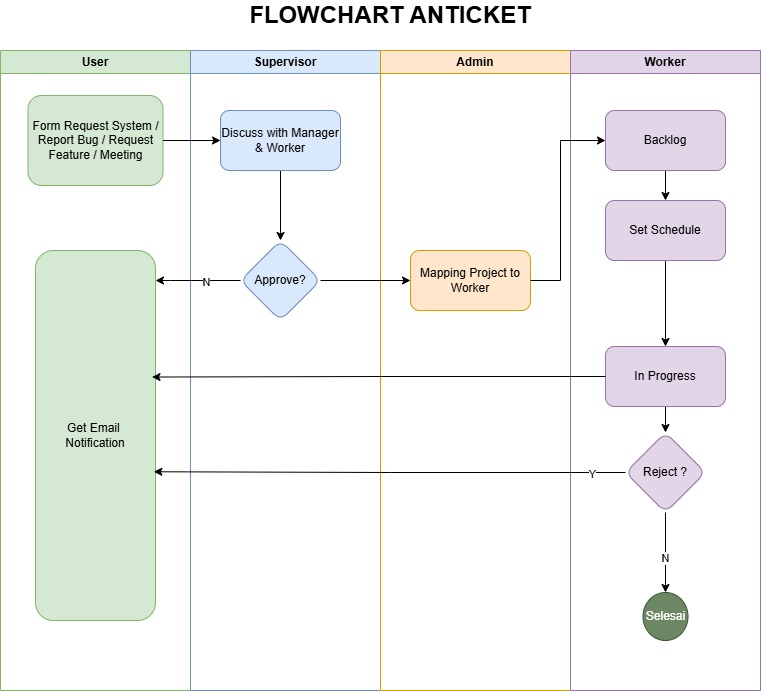
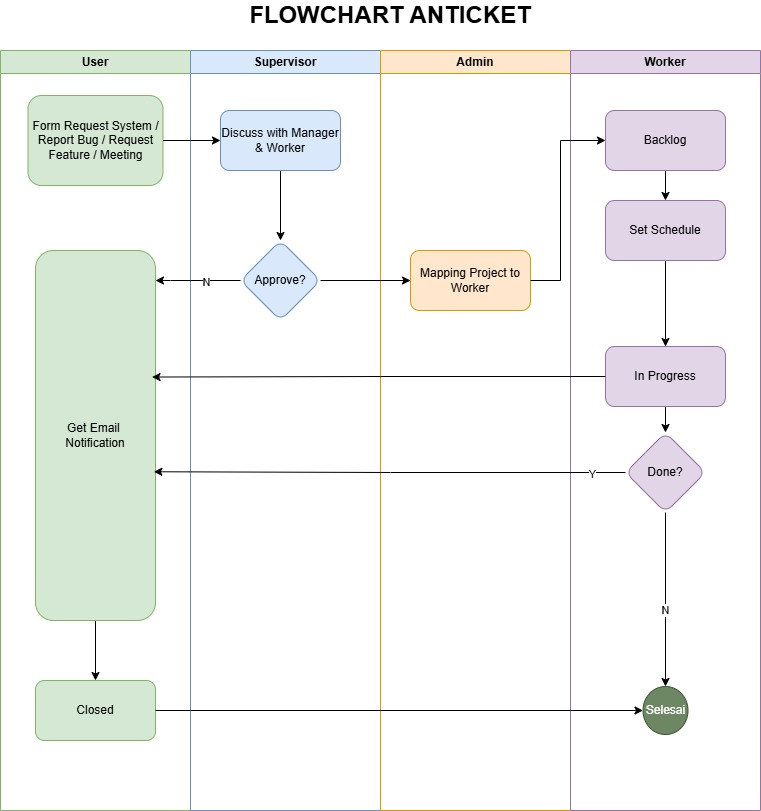
Create Feature Close Ticket User

diff --git a/assets/js/pages/user/close-ticket.js b/assets/js/pages/user/close-ticket.js
@@ -1,0 +1,183 @@
+$("#table").DataTable({
+    ordering: false,
+    ajax: {
+        type: "GET",
+        url: "/user/ticket/closeticket/getdata"
+    },
+    columns: [
+        { 
+            data: "no_ticket",
+            render: function(data, type, row){
+                return `#${data} <span class="badge bg-success" onclick="viewTicket(${row.id})"><i class="bi bi-eye"></i></span>`;
+            }
+        },
+        { data: "system_name" },
+        { 
+            data: "category",
+            render: function(data, type, row){
+                let badge = '';
+
+                if(data == 'system'){
+                    badge = `<span class="badge bg-info text-white">${data}</span>`
+                } else if(data == 'feature'){
+                    badge = `<span class="badge bg-primary text-white">${data}</span>`
+                } else if(data == 'bug'){
+                    badge = `<span class="badge bg-danger text-white">${data}</span>`
+                } else{
+                    badge = `<span class="badge bg-success text-white">${data}</span>`
+                }
+
+                return badge;
+            }
+        },
+        { data: "requestor_name" },
+        { 
+            data: "priority",
+            render: function(data, type, row){
+                let badge = '';
+
+                if(data == 'high'){
+                    badge = `<span class="badge bg-danger text-white">${data}</span>`
+                }else if(data == 'medium'){
+                    badge = `<span class="badge bg-warning text-white">${data}</span>`
+                }else{
+                    badge = `<span class="badge bg-success text-white">${data}</span>`
+                }
+
+                return badge;
+            }
+        },
+        { data: "deadline" },
+        { data: "status" },
+        { 
+            data: null,
+            render: function(data, type, row){
+                return `
+                    <span class="badge bg-primary" onclick="closeTicket(${row.id})">CLOSE</span>
+                `;
+            }
+        },
+    ]
+});
+
+function viewTicket(ticketId) {
+    const modal = new bootstrap.Modal(document.getElementById('viewModal'));
+    modal.show();
+
+    $('#viewModalContent').html('<p>Loading...</p>');
+
+    $.ajax({
+        url: `/user/ticket/closeticket/getById/${ticketId}`,
+        type: 'GET',
+        dataType: 'json', 
+        success: function(response) {
+            if(response.status === 'success' && response.data) {
+                const ticket = response.data;
+
+                let html = `
+                    <div class="row">
+                        <div class="col-md-6">
+                            <p><strong>No Ticket:</strong> #${ticket.no_ticket}</p>
+                            <p><strong>System:</strong> ${ticket.system_name || 'N/A'}</p>
+                            <p><strong>Type:</strong> 
+                                <span class="badge ${
+                                    ticket.category === 'system' ? 'bg-info' :
+                                    ticket.category === 'feature' ? 'bg-primary' :
+                                    ticket.category === 'bug' ? 'bg-danger' : 'bg-success'
+                                } text-white">${ticket.category}</span>
+                            </p>
+                            <p><strong>Requestor:</strong> ${ticket.requestor_name} (${ticket.requestor_nik})</p>
+                            <p><strong>Priority:</strong> 
+                                <span class="badge ${
+                                    ticket.priority === 'high' ? 'bg-danger' :
+                                    ticket.priority === 'medium' ? 'bg-warning' : 'bg-success'
+                                } text-white">${ticket.priority}</span>
+                            </p>
+                            <p><strong>Status:</strong> 
+                                <span class="badge ${
+                                    ticket.status === 'waiting approval' ? 'bg-warning' :
+                                    ticket.status === 'approved' ? 'bg-success' :
+                                    ticket.status === 'on progress' ? 'bg-info' :
+                                    ticket.status === 'done' ? 'bg-secondary' :
+                                    ticket.status === 'closed' ? 'bg-dark' : 'bg-light'
+                                }">${ticket.status}</span>
+                            </p>
+                            <p><strong>Deadline:</strong> ${ticket.deadline || 'Not set'}</p>
+                            <p><strong>Requested At:</strong> ${ticket.requested_at || 'N/A'}</p>
+                        </div>
+                        <div class="col-md-6">
+                            <p><strong>Description:</strong></p>
+                            <div class="border p-3 bg-light rounded">
+                                ${ticket.description ? ticket.description.replace(/\n/g, '<br>') : '<em>No description provided.</em>'}
+                            </div>
+                            <p><strong>URLs:</strong></p>
+                            <div class="border p-3 bg-light rounded">
+                                ${ticket.urls ? ticket.urls.split(',').map(url => `<a href="${url.trim()}" target="_blank">${url.trim()}</a><br>`).join('') : '<em>No URLs provided.</em>'}
+                            </div>
+                        </div>
+                    </div>
+                `;
+
+                $('#viewModalContent').html(html);
+
+            } else {
+                $('#viewModalContent').html('<div class="alert alert-danger">Could not load ticket details.</div>');
+                console.error('Error loading ticket:', response.message);
+            }
+        },
+        error: function(xhr, status, error) {
+            console.error('AJAX Error fetching ticket details for view:', error);
+            $('#viewModalContent').html('<div class="alert alert-danger">An error occurred while loading ticket details.</div>');
+        }
+    });
+}
+
+function closeTicket(ticketId) {
+    Swal.fire({
+        title: 'Konfirmasi Close Tiket',
+        text: "Pastikan ticket sesuai dengan permintaan anda",
+        icon: 'warning',
+        showCancelButton: true,
+        confirmButtonColor: '#3085d6',
+        cancelButtonColor: '#d33',
+        confirmButtonText: 'Ya, Close Tiket!',
+        cancelButtonText: 'Batal'
+    }).then((result) => {
+        if (result.isConfirmed) {
+            $.ajax({
+                url: `/user/ticket/closeticket/close/${ticketId}`, 
+                type: 'POST', 
+                dataType: 'json',
+                success: function(response) {
+                    Swal.close();
+
+                    if(response.status === 'success') {
+                        Swal.fire({
+                            icon: 'success',
+                            title: 'Berhasil!',
+                            text: response.message || 'Tiket berhasil ditutup.',
+                        }).then(() => {
+                            $('#table').DataTable().ajax.reload();
+                        });
+                    } else {
+                        Swal.fire({
+                            icon: 'error',
+                            title: 'Gagal!',
+                            text: response.message || 'Terjadi kesalahan saat menutup tiket.',
+                        });
+                    }
+                },
+                error: function(xhr, status, error) {
+                    Swal.close();
+                    
+                    console.error('AJAX Error closing ticket:', error);
+                    Swal.fire({
+                        icon: 'error',
+                        title: 'Gagal!',
+                        text: 'Terjadi kesalahan jaringan atau server.',
+                    });
+                }
+            });
+        }
+    });
+}

diff --git a/application/controllers/User/Ticket/CloseTicket.php b/application/controllers/User/Ticket/CloseTicket.php
@@ -1,0 +1,108 @@
+<?php
+defined('BASEPATH') OR exit('No direct script access allowed');
+
+class CloseTicket extends CI_Controller {
+    public function getData()
+    {
+        $nik = $this->session->userdata('nik');
+
+        $query = "
+            SELECT 
+                t.id, 
+                t.system_id, 
+                t.no_ticket, 
+                t.category, 
+                t.urls, 
+                t.priority, 
+                t.status, 
+                t.description, 
+                t.deadline,
+                t.requestor_name,
+                t.requestor_nik,
+                t.requested_at,
+                s.name AS system_name 
+            FROM tickets t
+            LEFT JOIN systems s ON t.system_id = s.id 
+            WHERE t.status = 'done' AND t.requestor_nik = ?
+            ORDER BY t.id DESC
+        ";
+
+        $data = $this->db->query($query, [$nik])->result();
+
+        echo json_encode(['data' => $data]);
+    }
+
+    public function index()
+	{
+        $data['title'] = 'User Request System';
+        $data['users'] = $this->db->query("SELECT name, nik FROM users")->result();
+
+		$this->load->view('layouts/app/header', $data);
+		$this->load->view('layouts/app/sidebar');
+		$this->load->view('layouts/app/navbar');
+		$this->load->view('pages/user/ticket/close-ticket');
+		$this->load->view('layouts/app/footer');
+	}
+
+    public function getById($id)
+    {
+        $id = $this->security->xss_clean($id);
+        if (!is_numeric($id)) {
+            show_404();
+        }
+
+        $escaped_id = $this->db->escape($id);
+        $query = "
+            SELECT 
+                t.id, 
+                t.system_id, 
+                t.no_ticket, 
+                t.category, 
+                t.urls, 
+                t.priority, 
+                t.status, 
+                t.description, 
+                t.deadline,
+                t.requestor_name,
+                t.requestor_nik,
+                t.requested_at,
+                s.name AS system_name 
+            FROM tickets t
+            LEFT JOIN systems s ON t.system_id = s.id 
+            WHERE t.id = $escaped_id
+            LIMIT 1
+        ";
+
+        $result = $this->db->query($query);
+
+        if ($result && $result->num_rows() > 0) {
+            echo json_encode(['status' => 'success', 'data' => $result->row()]);
+        } else {
+            echo json_encode(['status' => 'error', 'message' => 'Ticket not found.']);
+        }
+    }
+
+    public function close($id)
+    {
+        $name = $this->session->userdata('name');
+        $nik = $this->session->userdata('nik');
+        $at = date("Y-m-d H:i:s");
+
+        $query = "
+        UPDATE tickets
+        SET 
+            closed_name = ?,
+			closed_nik = ?,
+			closed_at = ?
+        WHERE id = ?
+        ";
+
+        $result = $this->db->query($query, [$name, $nik, $at, $id]);
+
+        if ($result) {
+			echo json_encode(['status' => 'success', 'message' => 'Berhasil close ticket']);
+		} else {
+			echo json_encode(['status' => 'error', 'message' => 'Gagal close ticket.']);
+		}
+    }
+}

diff --git a/application/views/pages/user/ticket/close-ticket.php b/application/views/pages/user/ticket/close-ticket.php
@@ -1,0 +1,63 @@
+<div class="container-fluid py-4">
+  <div class="row">
+    <div class="col-lg-12 position-relative z-index-2">
+      <div class="card card-plain">
+        <div class="card-body pt-3">
+          <hr class="horizontal dark mt-2">
+          <div class="row mt-4">
+            <div class="col-xl-12 col-sm-12 mb-xl-0 mb-4">
+              <div class="card">
+                <div class="card-body p-3">
+                  <div class="row">
+                    <div class="col-12 p-5">
+                      <div class="numbers">
+                        <h5 class="mb-5">Close Ticket</h5>
+                        <div class="table-responsive">
+                            <table class="table" id="table">
+                                <thead class="bg-primary">
+                                    <tr>
+                                        <th class="text-white">No Ticket</th>
+                                        <th class="text-white">System</th>
+                                        <th class="text-white">Type</th>
+                                        <th class="text-white">Requestor</th>
+                                        <th class="text-white">Priority</th>
+                                        <th class="text-white">Deadline</th>
+                                        <th class="text-white">Status</th>
+                                        <th class="text-white">Action</th>
+                                    </tr>
+                                </thead>
+                            </table>
+                        </div>
+                      </div>
+                    </div>
+                  </div>
+                </div>
+              </div>
+            </div>
+          </div>
+        </div>
+      </div>
+    </div>
+  </div>
+</div>
+
+<div class="modal fade" id="viewModal" tabindex="-1" aria-labelledby="viewModalLabel" aria-hidden="true">
+  <div class="modal-dialog modal-lg"> 
+    <div class="modal-content">
+      <div class="modal-header">
+        <h5 class="modal-title" id="viewModalLabel">View Ticket Details</h5>
+        <button type="button" class="btn-close" data-bs-dismiss="modal" aria-label="Close"></button>
+      </div>
+      <div class="modal-body">
+        <div id="viewModalContent">
+          <p>Loading...</p>
+        </div>
+      </div>
+      <div class="modal-footer">
+        <button type="button" class="btn btn-secondary" data-bs-dismiss="modal">Close</button>
+      </div>
+    </div>
+  </div>
+</div>
+
+<script src="<?= base_url('assets/js/pages/user/close-ticket.js'); ?>"></script>

diff --git a/application/config/routes.php b/application/config/routes.php
@@ -61,3 +61,4 @@ $route['user/ticket/request-feature'] = 'user/ticket/requestfeature/index';
 $route['user/ticket/report-bug'] = 'user/ticket/reportbug/index';
 $route['user/ticket/request-meeting'] = 'user/ticket/requestmeeting/index';
 $route['user/ticket/monitoring-ticket'] = 'user/ticket/monitoringticket/index';
+$route['user/ticket/close-ticket'] = 'user/ticket/closeticket/index';

diff --git a/README.md b/README.md
@@ -14,6 +14,7 @@ Penjelasan:
 - Setelah di mapping oleh admin, ticket akan masuk di backlog worker.
 - Worker melakukan set schedule dan mengerjakan ticket sesuai dengan schedule yang telah ditetapkan.
 - Ketika ticket sedang diproses, sudah selesai atau di reject maka otomatis user akan mendapatkan pemberitahuan melalui gmail.
+- Ticket dinyatakan selesai bila user sudah melakukan closing ticket.
 
 ## Role
 1. Root
@@ -38,4 +39,7 @@ Penjelasan:
 - Set Deadline & Priority Ticket.
 - Backlog Ticket.
 - Execution Ticket (In Progress, Done, Reject).
+- User closed ticket.
 - Analytic Perform Worker.
+- Chatting With Worker.
+- Management User.
